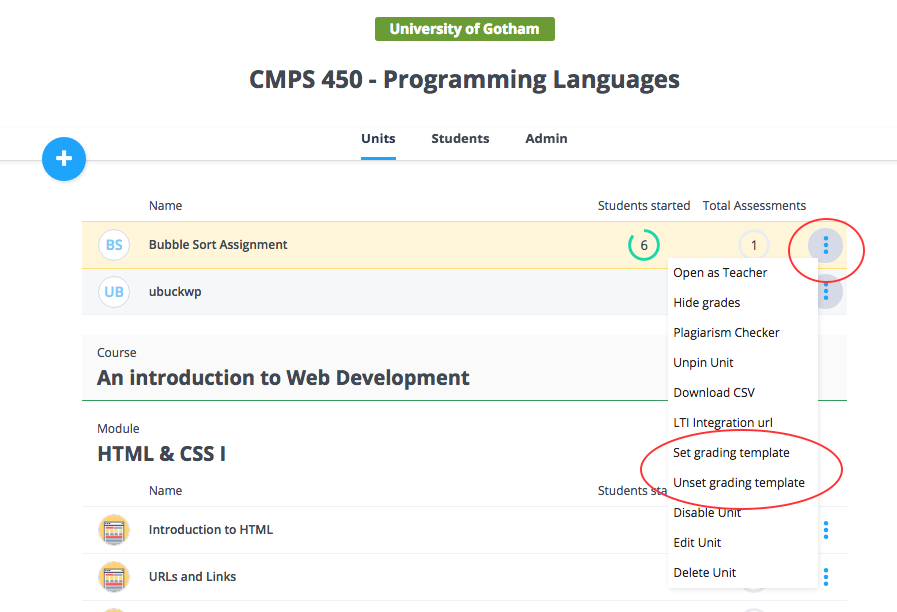
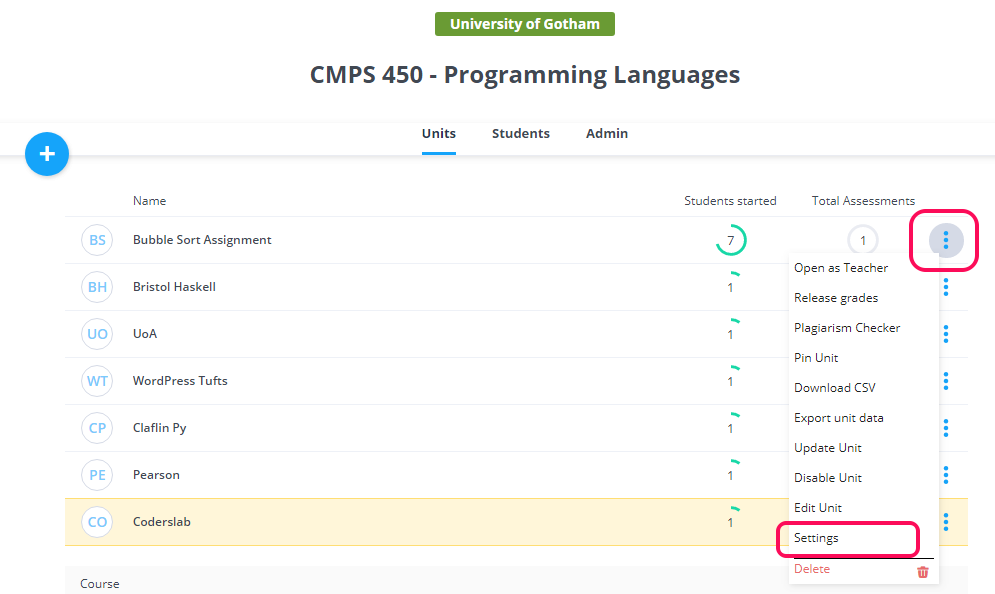
update grading rubric screenshots

diff --git a/source/docs/classes/classmanagement/rubric.html.md b/source/docs/classes/classmanagement/rubric.html.md
@@ -27,9 +27,10 @@ A final score is calculated based on your selections and is re-based to the maxi
 
 
 ### Applying a grading template to a unit
-To use a grading template you should select the classroom so you see the full unit listing. Press the button with the 3 dots to bring up the menu. Then select **Set grading template** from the list and choose the grading template from the list.
+To use a grading template you should select the classroom so you see the full unit listing. Press the button with the 3 dots to bring up the menu. Then select **Settings** and scroll down to the **Grading template** from the list and choose the grading template from the list. If there are not templates set up, follow the link to the organisation area to create a new template.
 
 <img alt="rubric template apply" src="/img/docs/class_administration/grading/set-template.png" class="simple"/>
+<img alt="rubric template set" src="/img/docs/class_administration/grading/grading-template.png" class="simple"/>
 
 ### Grading student work
 You perform the actual grading from the classroom. Select a unit to grade so you see the students listed.
